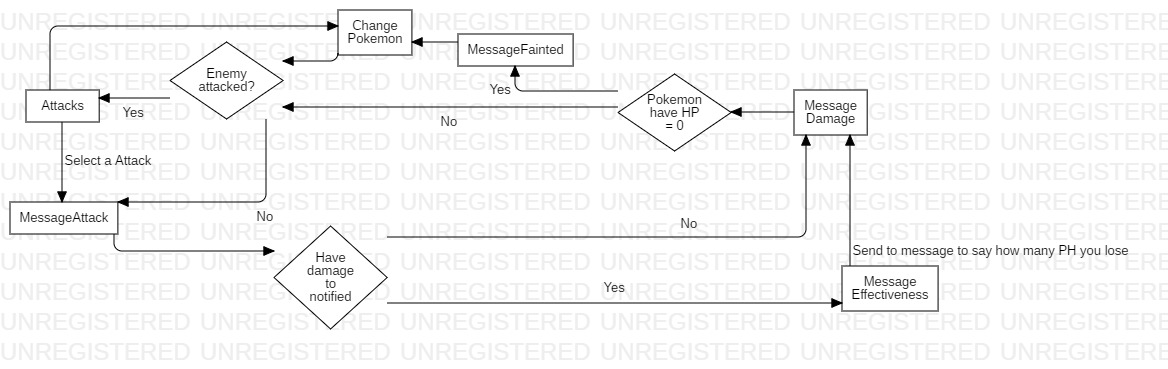
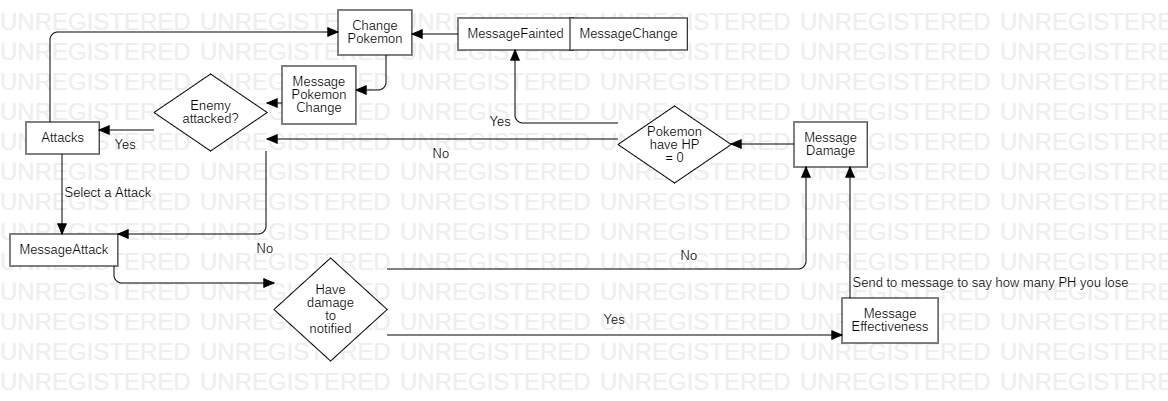
Pokemon Message and Final phase has reload done

diff --git a/src/pokemon-battle/pkmn-message.tsx b/src/pokemon-battle/pkmn-message.tsx
@@ -16,6 +16,8 @@ export function reducerMessage(action: PkmnActionMessage, state: PkmnStateMessag
         case "MessageEffectiveness": return MessageAttackEffectiveness(action, state);
         case "MessageDamage": return MessageAttackDamage(action, state);
         case "MessageFainted": return MessageFainted(action, state);
+        case "MessagePokemonChanged": return MessagePokemonChanged(action, state);
+        case "MessagePokemonUser": return MessagePokemonUserChange(action, state);
         default: return AttacksForUser(action, state);
     }
 }
@@ -117,10 +119,10 @@ function MessageAttackDamage(action: PkmnActionMessage, state: PkmnStateMessage)
     });
 }
 /// TODO: Animacion cambio Pokemon - M
-///       Cambiar Pokemon cuando quieras - S
+///       Cambiar Pokemon cuando quieras - S - x
 ///       Pokeballs visibles - S - x
 ///       Poner final - S
-///       La animacion no debe ejecutarse cuando el daño es nulo - XS x
+///       La animacion no debe ejecutarse cuando el daño es nulo - XS - x
 ///       Integrar status y recarga en general de estos - L
 function MessageFainted(action: PkmnActionMessage, state: PkmnStateMessage) {
     const { ally, enemy, battle, setMessage,
@@ -129,12 +131,19 @@ function MessageFainted(action: PkmnActionMessage, state: PkmnStateMessage) {
     const pkmn = (state.human) ? enemy.team[battle.enemyPkmnIndex] : ally.team[battle.allyPkmnIndex];
     const enemigo = (human) ? "enemigo" : "";
     const teamPokemonFainted = ally.team.map(monster => (monster.stats.hp == 0) ? monster.toPokemon() : null).filter(p => p);
+    const teamEnemyPokemonFainted = enemy.team.map(monster => (monster.stats.hp == 0) ? monster.toPokemon() : null).filter(p => p);
+
+    const isOver = teamPokemonFainted.length >= ally.team.length || teamEnemyPokemonFainted.length >= enemy.team.length;
 
     dispatchAnimation(action, !(state.human as boolean), (setAnimation as dispatchAnimaton));
     
     return Message(<div>
         {`${pkmn.name} ${enemigo} se ha debilitado.`}
         </div>, () => {
+            if(isOver) {
+                location.reload();
+            }
+
             if(!human) {
                 setMessage(reducerMessage("PokemonList", { ally, enemy, battle, setMessage,
                     setAnimation, pokemonRound, human, setEnemy, setAlly }));
@@ -144,10 +153,56 @@ function MessageFainted(action: PkmnActionMessage, state: PkmnStateMessage) {
             const nextMonster = getComputerPokemon(enemy.team, ally.team[battle.allyPkmnIndex]);
             battle.clearEnemyAttack();
             battle.selectPokemonToFight(battle.allyPkmnIndex, (nextMonster.index as number));
-            setMessage(reducerMessage("Attack", {ally, enemy, battle,
-                setMessage, setAnimation, setAlly, setEnemy}));
+            setMessage(reducerMessage("MessagePokemonChanged", {ally, enemy, battle,
+                setMessage, setAnimation, setAlly, setEnemy, human}));
             
         });
+}
+
+function MessagePokemonChanged(action: PkmnActionMessage, state: PkmnStateMessage) {
+    const { ally, enemy, battle, setMessage,
+        setAnimation, pokemonRound, human, setEnemy, setAlly } = state;   
+        
+    const pkmn = enemy.team[battle.enemyPkmnIndex];
+
+    dispatchAnimation(action, !(state.human as boolean), (setAnimation as dispatchAnimaton));
+
+    return <div>
+        {`${enemy.trainer} envía a ${pkmn.name}`}
+        <br /><br />
+        {`¿Quieres cambiar de pokemon?`}
+        <br /><br />
+        {["Sí","No"].map(text => <div onClick={() => {
+            if(text == "No") {
+                setMessage(reducerMessage("Attack", {ally, enemy, battle,
+                setMessage, setAnimation, setAlly, setEnemy, human}))
+                return;
+            }
+            setMessage(reducerMessage("PokemonList", {ally, enemy, battle,
+                setMessage, setAnimation, setAlly, setEnemy, human, pokemonRound}));
+        }} className="att">{text}</div>)}
+    </div>; 
+}
+
+function MessagePokemonUserChange(action: PkmnActionMessage, state: PkmnStateMessage) {
+    const { ally, enemy, battle, setMessage,
+        setAnimation, pokemonRound, attack, setEnemy, setAlly } = state;   
+        
+    const pkmn = ally.team[battle.allyPkmnIndex];
+
+    dispatchAnimation(action, !(state.human as boolean), (setAnimation as dispatchAnimaton));
+    
+    return Message(`${ally.trainer} envía a ${pkmn.name}`, () => {
+        if(state.human) {
+            setMessage(reducerMessage("MessageAttack", {
+                ally, enemy, battle, attack,
+                setMessage, setAnimation, pokemonRound, human: state.human, setAlly, setEnemy
+            }))
+            return;    
+        }
+        setMessage(reducerMessage("Attack", {ally, enemy, battle,
+            setMessage, setAnimation, setAlly, setEnemy}));
+    })
 }
 
 function PokemonListForUser(action: PkmnActionMessage, state: PkmnStateMessage) {
@@ -161,7 +216,7 @@ function PokemonListForUser(action: PkmnActionMessage, state: PkmnStateMessage) 
     dispatchAnimation(action, !(state.human as boolean), (setAnimation as dispatchAnimaton));
 
     return Message(<div>
-        {(!human) && <>
+        {<>
             <p>Selecciona otro pokemon</p> 
             <PokemonList pkmns={ally.team} details={{hp: true}} disabled={(teamPokemonFainted as PokemonObject[])} 
                 className="pokemon-list-fainted" classForCell="pokemon-each-fainted" onClick={(pkmn) => {
@@ -170,7 +225,7 @@ function PokemonListForUser(action: PkmnActionMessage, state: PkmnStateMessage) 
                     battle.selectPokemonToFight((index as number), battle.enemyPkmnIndex);
                     if(!state.human) {
                         const { attack, damage, modifier } = (battle as Battle).computerRound();
-                        setMessage(reducerMessage("MessageAttack", {
+                        setMessage(reducerMessage("MessagePokemonUser", {
                             ally, enemy, battle, attack,
                             setMessage, setAnimation, pokemonRound: { damage, modifier }, human: state.human, setAlly, setEnemy
                         }));

diff --git a/src/pokemon-battle/pkmn-battle.tsx b/src/pokemon-battle/pkmn-battle.tsx
@@ -9,14 +9,14 @@ import { Battle } from "../core/battle";
 import { reducerMessage } from "./pkmn-message";
 
 export function PokemonBattle(props: RouteComponentProps) {
-    const { terrain, pkmns } = props as unknown as PkmnBattleProps;
+    const { terrain, pkmns, trainers } = props as unknown as PkmnBattleProps;
     const [ally, setAlly] = useState({
         team: pkmns.you,
-        trainer: ""
+        trainer: trainers.you
     });
     const [enemy, setEnemy] = useState({
         team: pkmns.her,
-        trainer: ""
+        trainer: trainers.her
     });
 
     const [battle] = useState(new Battle(ally.team, enemy.team));

diff --git a/src/pokemon-battle/typing/pkmn-battle.d.ts b/src/pokemon-battle/typing/pkmn-battle.d.ts
@@ -46,6 +46,7 @@ type dispatchAnimaton = React.Dispatch<React.SetStateAction<PkmnStateAnimation>>
 
 type PkmnRoundMessage = { damage: number, modifier: number, attack?: Attacks }
 
-type PkmnActionMessage = "Attack" | "PokemonList" | "MessageAttack" | "MessageEffectiveness" | "MessageDamage" | "MessageFainted";
+type PkmnActionMessage = "Attack" | "PokemonList" | "MessageAttack" | "MessageEffectiveness" |
+                        "MessageDamage" | "MessageFainted" | "MessagePokemonChanged" | "MessagePokemonUser";
 
 type PkmnBattleTerrain = "grass" | "city" | "ocean" | "mountain";

diff --git a/src/pokemon-battle/pkmn-choose.tsx b/src/pokemon-battle/pkmn-choose.tsx
@@ -53,8 +53,8 @@ export function PokemonChoose() {
                     her: PokemonTeamForEnemy(pkmnList, level)
                 },
                 trainers: {
-                    you: "",
-                    her: ""
+                    you: "Entrenador Red",
+                    her: "Lider de Gimnasio Brock"
                 }
             }
         }} className="fight">Fight!</Link>}

diff --git a/src/core/computerAI.ts b/src/core/computerAI.ts
@@ -43,6 +43,6 @@ export function getComputerPokemon(team: Monster[], pkmnAlly: Monster) {
         }
         return randomValue < maxPokemonVariant;
     })[0];
-    const index = team.map((pkmn, i) => (pkmn.name == pokemon.name) ? i : -1).find(index => index > -1);
+    const index = team.findIndex((pkmn) => pkmn.name == pokemon.name);
     return {pokemon, index}
 }

diff --git a/src/pokemon-battle/style/pkmn-circle.css b/src/pokemon-battle/style/pkmn-circle.css
@@ -2,7 +2,7 @@
     width: 25vw;
     background: #d6d6d6;
     border: solid 4px #333;
-    border-radius: 10px;
+    border-radius: 30px 8px;
     left: 26vw;
     position: absolute;
     top: 12vh;

diff --git a/src/pokemon-battle/pkmn-list.tsx b/src/pokemon-battle/pkmn-list.tsx
@@ -1,5 +1,4 @@
 import React from "react";
-import listPokemon from "../info/pokemon.json";
 import images from "../assets/normal/*.png";
 
 import { PokemonObject } from "./typing/pkmn.def";
